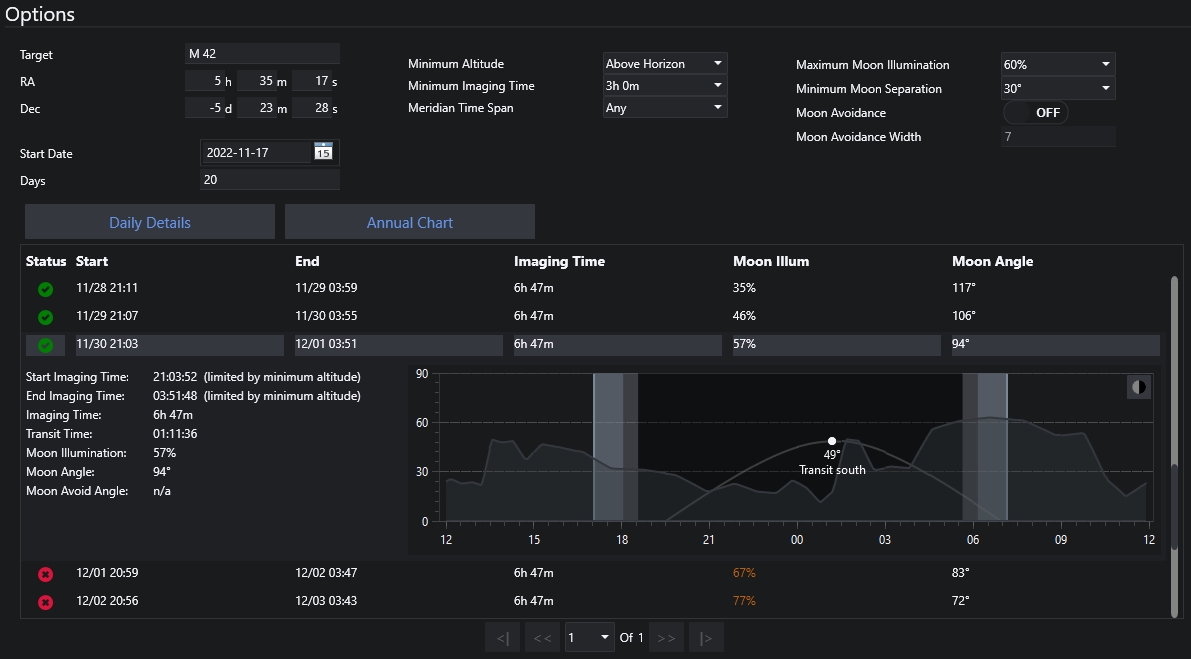
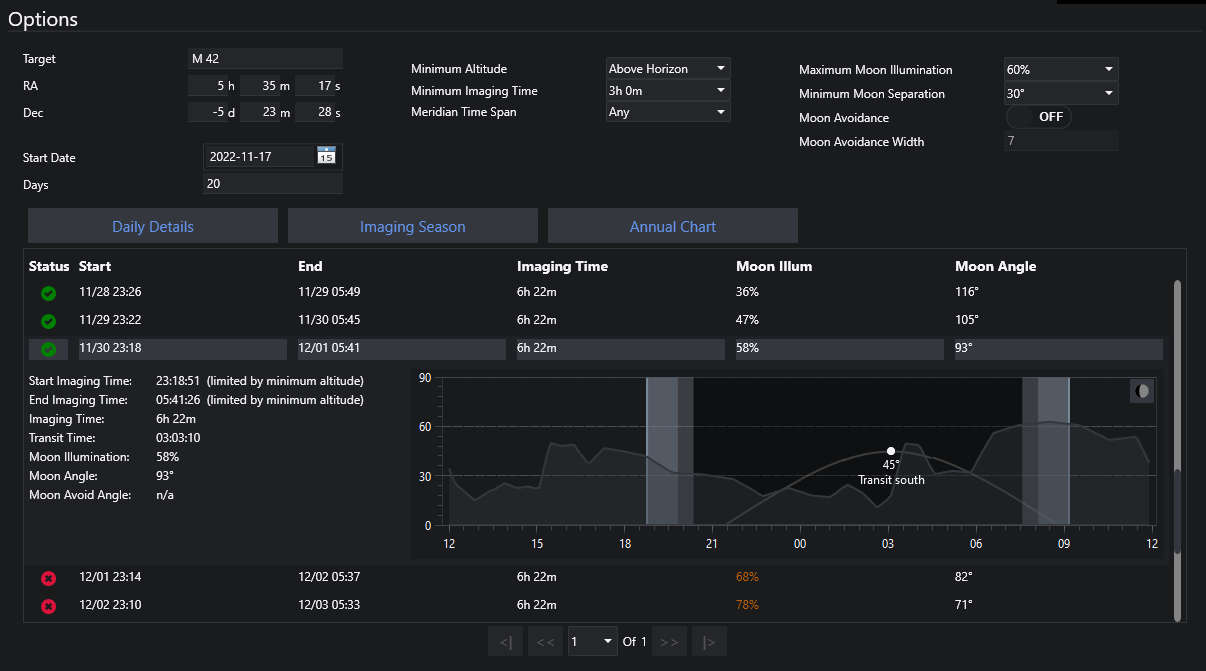
release prep

diff --git a/NINA.Plugin.TargetPlanning/NINA.Plugin.TargetPlanning.Test/Astrometry/ImagingDayTest.cs b/NINA.Plugin.TargetPlanning/NINA.Plugin.TargetPlanning.Test/Astrometry/ImagingDayTest.cs
@@ -120,23 +120,6 @@ namespace TargetPlanning.NINAPlugin.Test.Astrometry {
             timeWithHorizon.Should().BeSameDateAs(timeWithMinAlt);
         }
 
-        /*
-        [Test]
-        public void TestCustomHorizon() {
-            DateTime start = new DateTime(2022, 11, 4, 18, 0, 0);
-            DateTime end = new DateTime(2022, 11, 5, 6, 40, 0);
-            HorizonDefinition hd = new HorizonDefinition(TestUtil.GetTestHorizon(3), 0);
-
-            ImagingDay imagingDay = new ImagingDay(start, end, oi, TestUtil.M42, hd);
-            DateTime riseAbove = imagingDay.GetRiseAboveMinimumTime();
-            riseAbove.Should().BeCloseTo(new DateTime(2022, 11, 4, 23, 46, 6), new TimeSpan(0, 0, 1));
-
-            DateTime setBelow = imagingDay.GetSetBelowMinimumTime();
-            setBelow.Should().BeSameDateAs(DateTime.MinValue); // this is correct because M42 is in the horizon 'gap' at ~220 az at 6am
-
-            // TODO: additional edge cases here, also a good setbelow and a null riseabove
-        }*/
-
         [Test]
         public void TestGetSetBelowMinimumTime() {
             DateTime start = new DateTime(2022, 3, 15, 18, 0, 0);

diff --git a/NINA.Plugin.TargetPlanning/NINA.Plugin.TargetPlanning/Astrometry/TwilightTimeCache.cs b/NINA.Plugin.TargetPlanning/NINA.Plugin.TargetPlanning/Astrometry/TwilightTimeCache.cs
@@ -12,7 +12,7 @@ namespace TargetPlanning.NINAPlugin.Astrometry {
         private static readonly MemoryCache _cache = new MemoryCache("Target Planning Twilight Times");
 
         public static RiseAndSetEvent Get(DateTime dateTime, double latitude, double longitude) {
-            DateTime checkDate = new DateTime(dateTime.Year, dateTime.Month, dateTime.Day, 0, 0, 0);
+            DateTime checkDate = dateTime.Date;
             string key = GetCacheKey(checkDate, latitude, longitude);
             RiseAndSetEvent riseAndSetEvent = (RiseAndSetEvent)_cache.Get(key);
 

diff --git a/NINA.Plugin.TargetPlanning/NINA.Plugin.TargetPlanning/TargetPlanning.cs b/NINA.Plugin.TargetPlanning/NINA.Plugin.TargetPlanning/TargetPlanning.cs
@@ -160,7 +160,7 @@ namespace TargetPlanning.NINAPlugin {
         public IDeepSkyObjectSearchVM DeepSkyObjectSearchVM { get; private set; }
 
         public DateTime StartDate {
-            get => pluginSettings.GetValueDateTime(nameof(StartDate), DateTime.Now);
+            get => pluginSettings.GetValueDateTime(nameof(StartDate), DateTime.Now.Date);
             set {
                 pluginSettings.SetValueDateTime(nameof(StartDate), value);
                 RaisePropertyChanged();

diff --git a/CHANGELOG.md b/CHANGELOG.md
@@ -1,6 +1,6 @@
 # Target Planning
 
-## 1.1.0.0 - 2022-12-xx
+## 1.1.0.0 - 2022-12-06
 * Added Imaging Season chart
 * Fixed bug that caused >24h imaging session in some cases
 * Added annotations to the Annual Chart
